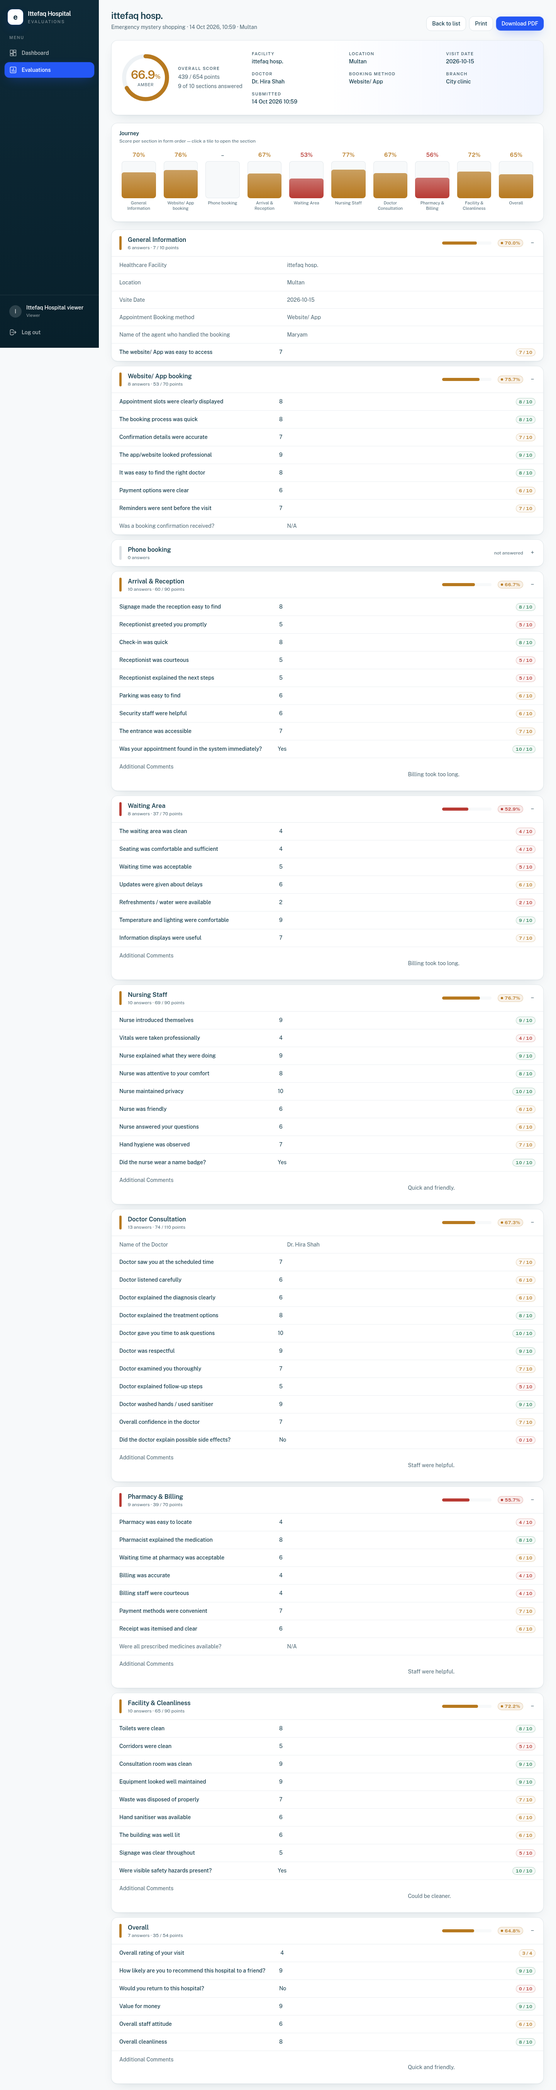
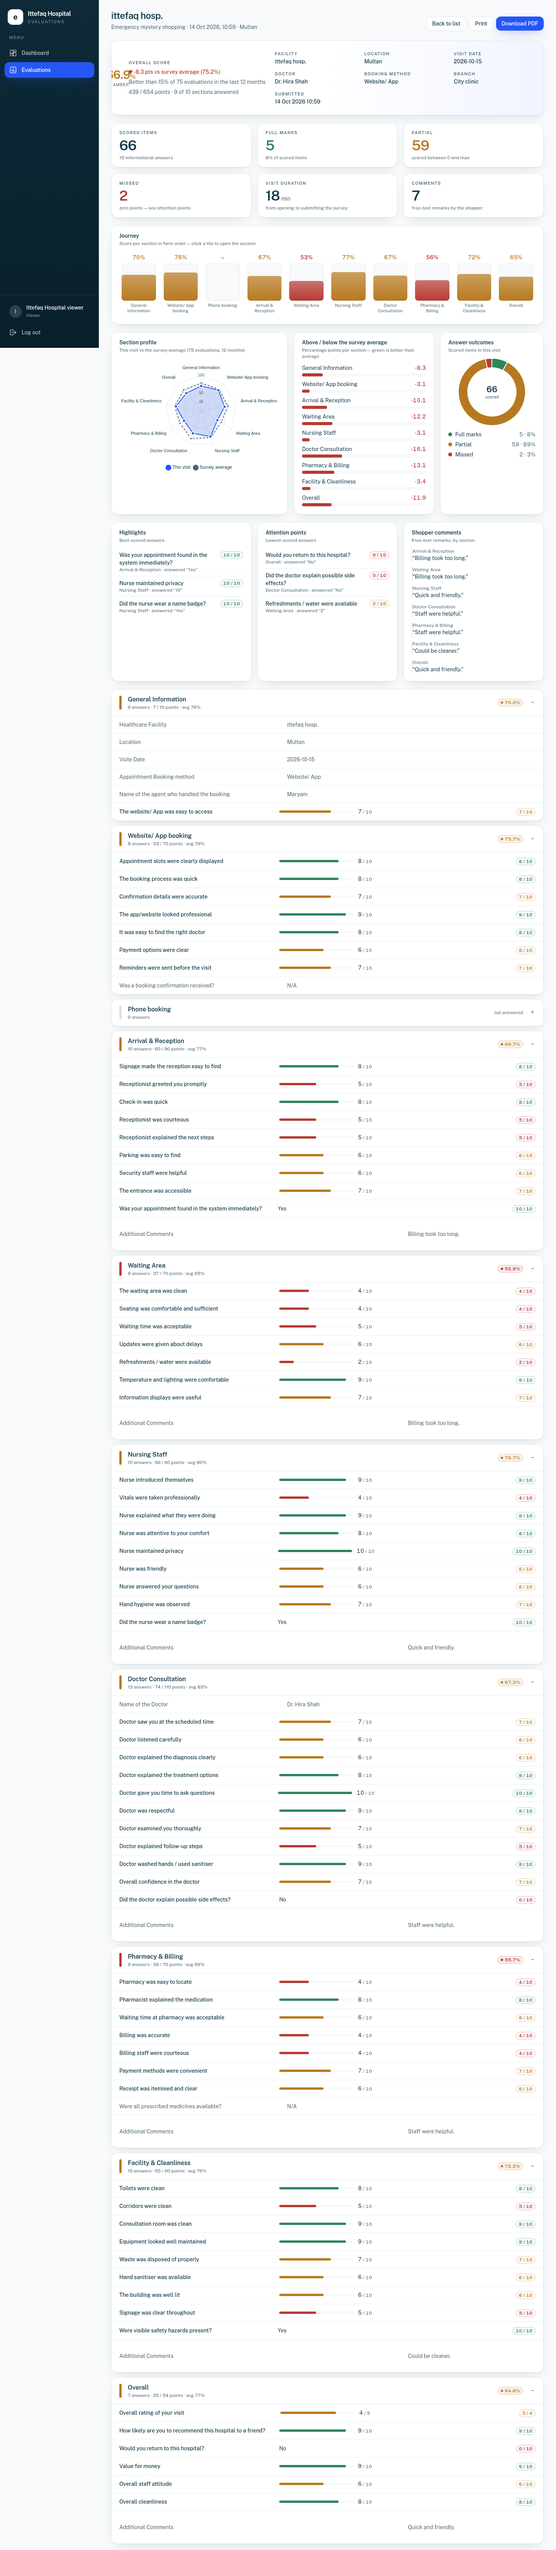
evaluation page: benchmark vs survey average, radar, delta bars, outcome donut, visit KPIs, highlights, comments digest

diff --git a/resources/views/livewire/hospital/evaluations/show.blade.php b/resources/views/livewire/hospital/evaluations/show.blade.php
@@ -8,6 +8,8 @@
         $ragBg = fn ($pct) => match ($ragOf($pct)) { \App\Enums\Rag::Green => 'bg-rag-green', \App\Enums\Rag::Amber => 'bg-rag-amber', \App\Enums\Rag::Red => 'bg-rag-red', default => 'bg-rag-neutral/40' };
         $answered = $e->sectionScores->filter(fn ($s) => $s->pct !== null)->count();
         $circumference = 2 * M_PI * 52;
+        $delta = $e->overall_pct !== null && $benchmark['overall_avg'] !== null ? round($e->overall_pct - $benchmark['overall_avg'], 1) : null;
+        $answeredScores = $e->sectionScores->filter(fn ($s) => $s->pct !== null)->values();
     @endphp
 
     <x-page-header :title="($e->infoValue('facility') ?? $e->form->title)" :subtitle="$e->form->title.' · '.($e->submitted_at?->format('d M Y, H:i') ?? 'in progress').($e->infoValue('location') ? ' · '.$e->infoValue('location') : '')">
@@ -24,11 +26,14 @@
         {{-- Hero --}}
         <div class="panel relative overflow-hidden">
             <div class="absolute inset-y-0 right-0 w-1/2 bg-gradient-to-l from-accent-soft/70 to-transparent pointer-events-none" aria-hidden="true"></div>
-            <div class="relative p-5 sm:p-6 grid grid-cols-1 lg:grid-cols-[auto_1fr] gap-6 items-center">
-                <div class="flex items-center gap-5">
-                    <div class="relative h-32 w-32 shrink-0" role="img" aria-label="Overall score {{ $e->overall_pct === null ? 'not available' : number_format($e->overall_pct, 1).' percent' }}">
-                        <svg viewBox="0 0 120 120" class="h-32 w-32 -rotate-90">
+            <div class="relative p-5 sm:p-6 grid grid-cols-1 lg:grid-cols-2 gap-6 items-center">
+                <div class="flex items-center gap-5 min-w-0">
+                    <div class="relative h-36 w-36 shrink-0" role="img" aria-label="Overall score {{ $e->overall_pct === null ? 'not available' : number_format($e->overall_pct, 1).' percent' }}">
+                        <svg viewBox="0 0 120 120" class="h-36 w-36 -rotate-90">
                             <circle cx="60" cy="60" r="52" fill="none" stroke="#EEF2F5" stroke-width="10"/>
+                            @if($benchmark['overall_avg'] !== null)
+                                <circle cx="60" cy="60" r="52" fill="none" stroke="#A9B6BD" stroke-width="2" stroke-dasharray="2 {{ $circumference - 2 }}" stroke-dashoffset="{{ -$circumference * $benchmark['overall_avg'] / 100 }}" />
+                            @endif
                             <circle cx="60" cy="60" r="52" fill="none" stroke="{{ $ragStroke($e->overall_pct) }}" stroke-width="10" stroke-linecap="round"
                                     stroke-dasharray="{{ $circumference }}" stroke-dashoffset="{{ $circumference * (1 - min(100, max(0, (float) ($e->overall_pct ?? 0))) / 100) }}"/>
                         </svg>
@@ -37,10 +42,15 @@
                             <span class="text-[11px] uppercase tracking-wider text-ink-soft">{{ $ragOf($e->overall_pct)?->label() ?? 'no score' }}</span>
                         </div>
                     </div>
-                    <div class="space-y-1">
+                    <div class="space-y-1.5 min-w-0">
                         <div class="eyebrow">Overall score</div>
-                        <div class="text-sm text-ink-soft">{{ $e->points !== null ? number_format($e->points, 0).' / '.number_format($e->max_points, 0).' points' : 'No scored answers' }}</div>
-                        <div class="text-sm text-ink-soft">{{ $answered }} of {{ $e->sectionScores->count() }} sections answered</div>
+                        @if($delta !== null)
+                            <div class="text-sm font-medium {{ $delta > 0 ? 'text-rag-green' : ($delta < 0 ? 'text-rag-red' : 'text-ink-soft') }}"><span aria-hidden="true">{{ $delta > 0 ? '▲' : ($delta < 0 ? '▼' : '▶') }}</span> {{ $delta > 0 ? '+' : '' }}{{ number_format($delta, 1) }} pts vs survey average ({{ number_format($benchmark['overall_avg'], 1) }}%)</div>
+                        @endif
+                        @if($benchmark['percentile'] !== null)
+                            <div class="text-sm text-ink-soft">Better than {{ $benchmark['percentile'] }}% of {{ $benchmark['count'] }} evaluations in the last 12 months</div>
+                        @endif
+                        <div class="text-sm text-ink-soft">{{ $e->points !== null ? number_format($e->points, 0).' / '.number_format($e->max_points, 0).' points' : 'No scored answers' }} · {{ $answered }} of {{ $e->sectionScores->count() }} sections answered</div>
                         @if($isAdmin)
                             <div class="pt-1 flex flex-wrap gap-1.5">
                                 <x-badge :variant="match ($e->status) { \App\Enums\SubmissionStatus::Approved => 'green', \App\Enums\SubmissionStatus::PendingReview => 'amber', default => 'red' }">{{ $e->status->label() }}</x-badge>
@@ -66,22 +76,160 @@
             </div>
         </div>
 
+        {{-- Visit KPIs --}}
+        <div class="grid grid-cols-2 md:grid-cols-3 xl:grid-cols-6 gap-4">
+            <x-kpi label="Scored items" :value="$insights['scored_count']" :note="$insights['unscored'].' informational answers'" />
+            <x-kpi label="Full marks" :value="$insights['full']" tone="green" :note="$insights['scored_count'] > 0 ? number_format(100 * $insights['full'] / $insights['scored_count'], 0).'% of scored items' : null" />
+            <x-kpi label="Partial" :value="$insights['partial']" tone="amber" note="scored between 0 and max" />
+            <x-kpi label="Missed" :value="$insights['zero']" :tone="$insights['zero'] > 0 ? 'red' : null" :note="$insights['zero'] > 0 ? 'zero points — see attention points' : 'no zero-point answers'" />
+            <x-kpi label="Visit duration" :value="$insights['duration_minutes'] === null ? '–' : $insights['duration_minutes']" :unit="$insights['duration_minutes'] === null ? null : 'min'" note="from opening to submitting the survey" />
+            <x-kpi label="Comments" :value="count($insights['comments'])" note="free-text remarks by the shopper" />
+        </div>
+
+        {{-- Journey --}}
         <x-card title="Journey" subtitle="Score per section in form order — click a tile to open the section">
             <x-journey-strip :scores="$e->sectionScores" :green="$green" :amber="$amber" />
         </x-card>
 
+        {{-- Radar · vs average · answer outcomes --}}
+        <div class="grid grid-cols-1 xl:grid-cols-12 gap-4">
+            <x-card title="Section profile" :subtitle="'This visit vs the survey average'.($benchmark['count'] > 0 ? ' ('.$benchmark['count'].' evaluations, 12 months)' : '')" class="xl:col-span-5">
+                @if($answeredScores->count() < 3)
+                    <p class="text-sm text-ink-soft">The radar needs at least three answered sections.</p>
+                @else
+                    @php
+                        $labels = $answeredScores->map(fn ($s) => $s->section_name)->values()->all();
+                        $visit = $answeredScores->map(fn ($s) => round((float) $s->pct, 1))->values()->all();
+                        $avg = $answeredScores->map(fn ($s) => $benchmark['sections'][$s->section_name] ?? null)->values()->all();
+                        $hasAvg = collect($avg)->filter(fn ($v) => $v !== null)->isNotEmpty();
+                        $datasets = [[
+                            'label' => 'This visit', 'data' => $visit, 'borderColor' => '#2457F5', 'backgroundColor' => 'rgba(36, 87, 245, 0.18)', 'borderWidth' => 2,
+                            'pointBackgroundColor' => '#2457F5', 'pointBorderColor' => '#ffffff', 'pointBorderWidth' => 2, 'pointRadius' => 4,
+                        ]];
+                        if ($hasAvg) {
+                            $datasets[] = ['label' => 'Survey average', 'data' => $avg, 'borderColor' => '#4E6875', 'backgroundColor' => 'rgba(78, 104, 117, 0.06)', 'borderWidth' => 2, 'borderDash' => [5, 4], 'pointBackgroundColor' => '#4E6875', 'pointBorderColor' => '#ffffff', 'pointBorderWidth' => 2, 'pointRadius' => 3];
+                        }
+                    @endphp
+                    <x-chart type="radar" height="h-80" aria-label="Section profile radar" :config="[
+                        'data' => ['labels' => $labels, 'datasets' => $datasets],
+                        'options' => [
+                            'responsive' => true, 'maintainAspectRatio' => false,
+                            'scales' => ['r' => ['min' => 0, 'max' => 100, 'ticks' => ['stepSize' => 25, 'backdropColor' => 'transparent', 'color' => '#4E6875', 'font' => ['size' => 10]], 'grid' => ['color' => 'rgba(220,227,231,0.9)'], 'angleLines' => ['color' => 'rgba(220,227,231,0.9)'], 'pointLabels' => ['color' => '#123A4A', 'font' => ['size' => 11]]]],
+                            'plugins' => ['legend' => ['display' => $hasAvg, 'position' => 'bottom', 'labels' => ['usePointStyle' => true, 'boxWidth' => 8, 'color' => '#123A4A']]],
+                        ],
+                    ]" />
+                @endif
+            </x-card>
+
+            <x-card title="Above / below the survey average" subtitle="Percentage points per section — green is better than average" class="xl:col-span-4">
+                @if($answeredScores->isEmpty() || empty($benchmark['sections']))
+                    <p class="text-sm text-ink-soft">No comparison available yet.</p>
+                @else
+                    <ol class="space-y-2.5">
+                        @foreach($answeredScores as $s)
+                            @php $a = $benchmark['sections'][$s->section_name] ?? null; $d = $a === null ? null : round((float) $s->pct - $a, 1); $w = $d === null ? 0 : min(50, abs($d) * 2); @endphp
+                            <li class="text-sm">
+                                <div class="flex justify-between gap-2 mb-1"><span class="truncate" title="{{ $s->section_name }}">{{ $s->section_name }}</span><span class="tabular-nums font-medium whitespace-nowrap {{ $d === null ? 'text-ink-soft' : ($d > 0 ? 'text-rag-green' : ($d < 0 ? 'text-rag-red' : 'text-ink-soft')) }}">{{ $d === null ? 'no average' : ($d > 0 ? '+' : '').number_format($d, 1) }}</span></div>
+                                <div class="relative h-2 rounded-full bg-paper overflow-hidden" role="img" aria-label="{{ $s->section_name }} {{ $d === null ? 'no comparison' : ($d > 0 ? '+' : '').number_format($d, 1).' points vs average' }}">
+                                    <span class="absolute inset-y-0 left-1/2 w-px bg-line" aria-hidden="true"></span>
+                                    @if($d !== null && $d !== 0.0)
+                                        <span class="absolute inset-y-0 rounded-full {{ $d > 0 ? 'bg-rag-green left-1/2' : 'bg-rag-red right-1/2' }}" style="width: {{ $w }}%"></span>
+                                    @endif
+                                </div>
+                            </li>
+                        @endforeach
+                    </ol>
+                @endif
+            </x-card>
+
+            <x-card title="Answer outcomes" subtitle="Scored items in this visit" class="xl:col-span-3">
+                @if($insights['scored_count'] === 0)
+                    <p class="text-sm text-ink-soft">No scored answers.</p>
+                @else
+                    <x-chart type="doughnut" height="h-44" aria-label="Answer outcomes" :center-text="['value' => (string) $insights['scored_count'], 'label' => 'scored']" :config="[
+                        'data' => ['labels' => ['Full marks', 'Partial', 'Missed'], 'datasets' => [['data' => [$insights['full'], $insights['partial'], $insights['zero']], 'backgroundColor' => ['#2F855A', '#B7791F', '#B83A33'], 'borderColor' => '#ffffff', 'borderWidth' => 2, 'hoverOffset' => 4]]],
+                        'options' => ['responsive' => true, 'maintainAspectRatio' => false, 'cutout' => '72%', 'plugins' => ['legend' => ['display' => false]]],
+                    ]" />
+                    <ul class="mt-3 space-y-1.5 text-sm">
+                        @foreach([['Full marks', 'bg-rag-green', $insights['full']], ['Partial', 'bg-rag-amber', $insights['partial']], ['Missed', 'bg-rag-red', $insights['zero']]] as [$label, $cls, $n])
+                            <li class="flex items-center justify-between gap-2"><span class="flex items-center gap-2"><span class="h-2.5 w-2.5 rounded-full {{ $cls }}" aria-hidden="true"></span>{{ $label }}</span><span class="tabular-nums text-ink-soft">{{ $n }} · {{ number_format(100 * $n / $insights['scored_count'], 0) }}%</span></li>
+                        @endforeach
+                    </ul>
+                @endif
+            </x-card>
+        </div>
+
+        {{-- Highlights · attention · comments --}}
+        <div class="grid grid-cols-1 xl:grid-cols-12 gap-4">
+            <x-card title="Highlights" subtitle="Best-scored answers" class="xl:col-span-4">
+                @if($insights['best'] === [])
+                    <p class="text-sm text-ink-soft">No scored answers.</p>
+                @else
+                    <ul class="divide-y divide-line/70 text-sm">
+                        @foreach($insights['best'] as $a)
+                            <li class="py-2 flex items-start justify-between gap-3">
+                                <span class="min-w-0"><span class="block font-medium">{{ $a['title'] }}</span><span class="block text-xs text-ink-soft">{{ $a['section'] }} · answered “{{ $a['value'] }}”</span></span>
+                                <span class="shrink-0 inline-flex rounded-full px-2 py-0.5 text-xs font-semibold tabular-nums ring-1 ring-inset text-rag-green ring-rag-green/30 bg-rag-green/5">{{ number_format($a['points'], 0) }} / {{ number_format($a['max'], 0) }}</span>
+                            </li>
+                        @endforeach
+                    </ul>
+                @endif
+            </x-card>
+
+            <x-card title="Attention points" subtitle="Lowest-scored answers" class="xl:col-span-4">
+                @if($insights['worst'] === [])
+                    <p class="text-sm text-ink-soft">No scored answers.</p>
+                @else
+                    <ul class="divide-y divide-line/70 text-sm">
+                        @foreach($insights['worst'] as $a)
+                            <li class="py-2 flex items-start justify-between gap-3">
+                                <span class="min-w-0"><span class="block font-medium">{{ $a['title'] }}</span><span class="block text-xs text-ink-soft">{{ $a['section'] }} · answered “{{ $a['value'] }}”</span></span>
+                                <span class="shrink-0 inline-flex rounded-full px-2 py-0.5 text-xs font-semibold tabular-nums ring-1 ring-inset {{ $a['ratio'] <= 0.001 ? 'text-rag-red ring-rag-red/30 bg-rag-red/5' : 'text-rag-amber ring-rag-amber/30 bg-rag-amber/5' }}">{{ number_format($a['points'], 0) }} / {{ number_format($a['max'], 0) }}</span>
+                            </li>
+                        @endforeach
+                    </ul>
+                @endif
+            </x-card>
+
+            <x-card title="Shopper comments" subtitle="Free-text remarks, by section" class="xl:col-span-4">
+                @if($insights['comments'] === [])
+                    <p class="text-sm text-ink-soft">No comments were left.</p>
+                @else
+                    <ul class="space-y-3">
+                        @foreach($insights['comments'] as $c)
+                            <li class="relative pl-3 border-l-2 border-accent/40 text-sm">
+                                <span class="block text-xs text-ink-soft mb-0.5">{{ $c['section'] }}</span>
+                                <span class="block whitespace-pre-wrap">“{{ $c['text'] }}”</span>
+                            </li>
+                        @endforeach
+                    </ul>
+                @endif
+            </x-card>
+        </div>
+
+        {{-- Sections --}}
         <div class="space-y-3">
             @foreach($sections as $block)
-                @php $section = $block['section']; $score = $block['score']; $pct = $score?->pct; @endphp
+                @php
+                    $section = $block['section']; $score = $block['score']; $pct = $score?->pct;
+                    $scoredRows = array_values(array_filter($block['rows'], fn ($r) => $r['answer']->isScored() && $r['answer']->max_points > 0));
+                @endphp
                 <section id="section-{{ $section->id }}" class="panel scroll-mt-4" x-data="{ open: {{ $pct !== null ? 'true' : 'false' }} }" x-on:open-section="open = true">
                     <button type="button" x-on:click="open = !open" class="w-full flex items-center gap-4 px-5 py-3.5 text-left rounded-2xl" :aria-expanded="open.toString()">
                         <span class="h-9 w-1.5 rounded-full {{ $ragBg($pct) }} shrink-0" aria-hidden="true"></span>
                         <span class="flex-1 min-w-0">
                             <span class="block font-semibold truncate">{{ $section->name }}</span>
-                            <span class="block text-xs text-ink-soft">{{ count($block['rows']) }} {{ Str::plural('answer', count($block['rows'])) }}@if($score && $pct !== null) · {{ number_format($score->points, 0) }} / {{ number_format($score->max_points, 0) }} points @endif</span>
+                            <span class="block text-xs text-ink-soft">{{ count($block['rows']) }} {{ Str::plural('answer', count($block['rows'])) }}@if($score && $pct !== null) · {{ number_format($score->points, 0) }} / {{ number_format($score->max_points, 0) }} points @endif@if(isset($benchmark['sections'][$section->name]) && $pct !== null) · avg {{ number_format($benchmark['sections'][$section->name], 0) }}% @endif</span>
                         </span>
+                        @if($scoredRows !== [])
+                            <span class="hidden md:flex items-center gap-0.5" aria-label="Answer scores in order" title="Each square is one scored answer">
+                                @foreach($scoredRows as $r)
+                                    @php $ratio = 100 * $r['answer']->points / $r['answer']->max_points; @endphp
+                                    <span class="h-3 w-3 rounded-sm {{ $ragBg($ratio) }}" style="opacity: {{ 0.45 + 0.55 * $ratio / 100 }}" title="{{ $r['field']->title }}: {{ number_format($r['answer']->points, 0) }} / {{ number_format($r['answer']->max_points, 0) }}"></span>
+                                @endforeach
+                            </span>
+                        @endif
                         @if($pct !== null)
-                            <span class="hidden sm:block w-32 h-2 rounded-full bg-paper overflow-hidden" aria-hidden="true"><span class="block h-full rounded-full {{ $ragBg($pct) }}" style="width: {{ $pct }}%"></span></span>
                             <x-rag-pill :pct="$pct" />
                         @else
                             <span class="text-xs text-ink-soft">not answered</span>
@@ -95,7 +243,7 @@
                             <dl class="divide-y divide-line/60">
                                 @foreach($block['rows'] as $row)
                                     @php $field = $row['field']; $answer = $row['answer']; $scored = $answer->isScored(); $ratio = $scored && $answer->max_points > 0 ? 100 * $answer->points / $answer->max_points : null; @endphp
-                                    <div class="px-5 py-3 grid grid-cols-1 sm:grid-cols-[minmax(0,2fr)_minmax(0,3fr)_auto] gap-2 sm:gap-4 items-start text-sm {{ $scored ? '' : 'text-ink-soft' }}">
+                                    <div class="px-5 py-3 grid grid-cols-1 sm:grid-cols-[minmax(0,2fr)_minmax(0,3fr)_auto] gap-2 sm:gap-4 items-center text-sm {{ $scored ? '' : 'text-ink-soft' }}">
                                         <dt class="{{ $scored ? 'font-medium text-ink' : '' }}">{{ $field->title }}</dt>
                                         <dd class="{{ $field->type === 'long_text' ? 'whitespace-pre-wrap' : '' }}">
                                             @if($answer->answer_type === 'file_url')
@@ -105,6 +253,11 @@
                                                 @else
                                                     <a href="{{ route('evaluations.files.show', [$e, $answer->id]) }}" class="underline">Download {{ $answer->value_text }}</a>
                                                 @endif
+                                            @elseif($scored && $ratio !== null && $field->isScale())
+                                                <span class="flex items-center gap-3">
+                                                    <span class="flex-1 max-w-[12rem] h-1.5 rounded-full bg-paper overflow-hidden" aria-hidden="true"><span class="block h-full rounded-full {{ $ragBg($ratio) }}" style="width: {{ $ratio }}%"></span></span>
+                                                    <span class="tabular-nums">{{ $answer->value_text }}<span class="text-ink-soft text-xs"> / {{ $field->scale_max }}</span></span>
+                                                </span>
                                             @else
                                                 {{ $answer->value_text ?? '—' }}
                                             @endif

diff --git a/app/Livewire/Hospital/Evaluations/Show.php b/app/Livewire/Hospital/Evaluations/Show.php
@@ -3,11 +3,15 @@
 namespace App\Livewire\Hospital\Evaluations;
 
 use App\Domain\Audit\AuditLogger;
+use App\Domain\Dashboard\DashboardFilters;
+use App\Domain\Dashboard\DashboardQuery;
 use App\Domain\Scoring\Rescorer;
 use App\Enums\SubmissionStatus;
+use App\Models\Answer;
 use App\Models\Submission;
 use App\Models\User;
 use Illuminate\Contracts\View\View;
+use Illuminate\Support\Collection;
 use Livewire\Attributes\Layout;
 use Livewire\Component;
 
@@ -44,6 +48,74 @@ class Show extends Component
     public function reject(AuditLogger $audit): void
     {
         $this->review(SubmissionStatus::Rejected, 'submission.rejected', $audit);
+    }
+
+    /**
+     * How this evaluation compares with the same survey over the last 12 months.
+     *
+     * @return array{overall_avg: float|null, count: int, percentile: int|null, sections: array<string, float>}
+     */
+    private function benchmark(User $user): array
+    {
+        $form = $this->evaluation->form;
+        $query = new DashboardQuery($user);
+        $filters = DashboardFilters::fromRequest('12m')->withForm($form->id);
+
+        $headline = $query->headline($form->hospital, $filters);
+        $sections = collect($query->sectionAverages($form, $filters))->mapWithKeys(fn ($s) => [$s['name'] => $s['avg']])->all();
+
+        $percentile = null;
+        if ($this->evaluation->overall_pct !== null && $headline['count'] > 1) {
+            $below = $query->base($form->hospital, $filters)->where('submissions.overall_pct', '<', $this->evaluation->overall_pct)->count();
+            $percentile = (int) round(100 * $below / $headline['count']);
+        }
+
+        return ['overall_avg' => $headline['avg'], 'count' => $headline['count'], 'percentile' => $percentile, 'sections' => $sections];
+    }
+
+    /**
+     * Answer-level facts for the visit: outcome mix, best and weakest answers, comments, duration.
+     *
+     * @param  Collection<int, mixed>  $sections
+     * @return array<string, mixed>
+     */
+    private function insights($sections): array
+    {
+        $scored = [];
+        $comments = [];
+        $unscored = 0;
+        foreach ($sections as $block) {
+            foreach ($block['rows'] as $row) {
+                $answer = $row['answer'];
+                if ($answer->isScored() && $answer->max_points > 0) {
+                    $scored[] = ['title' => $row['field']->title, 'section' => $block['section']->name, 'points' => $answer->points, 'max' => $answer->max_points, 'ratio' => $answer->points / $answer->max_points, 'value' => $answer->value_text];
+                } else {
+                    $unscored++;
+                    if ($row['field']->type === 'long_text' && trim((string) $answer->value_text) !== '') {
+                        $comments[] = ['section' => $block['section']->name, 'text' => $answer->value_text];
+                    }
+                }
+            }
+        }
+
+        $full = count(array_filter($scored, fn ($a) => $a['ratio'] >= 0.999));
+        $zero = count(array_filter($scored, fn ($a) => $a['ratio'] <= 0.001));
+        usort($scored, fn ($a, $b) => $b['ratio'] <=> $a['ratio']);
+
+        $landed = $this->evaluation->landed_at;
+        $submitted = $this->evaluation->submitted_at;
+
+        return [
+            'scored_count' => count($scored),
+            'full' => $full,
+            'partial' => count($scored) - $full - $zero,
+            'zero' => $zero,
+            'unscored' => $unscored,
+            'best' => array_slice($scored, 0, 3),
+            'worst' => array_slice(array_reverse($scored), 0, 3),
+            'comments' => $comments,
+            'duration_minutes' => $landed && $submitted ? max(0, (int) round($landed->diffInMinutes($submitted))) : null,
+        ];
     }
 
     private function review(SubmissionStatus $status, string $action, AuditLogger $audit): void
@@ -93,6 +165,8 @@ class Show extends Component
         return view('livewire.hospital.evaluations.show', [
             'sections' => $sections,
             'orphanAnswers' => $orphanAnswers,
+            'benchmark' => $this->benchmark($user),
+            'insights' => $this->insights($sections),
             'isAdmin' => $user->isSuperAdmin(),
             'rawJson' => $user->isSuperAdmin() ? json_encode($this->evaluation->raw, JSON_PRETTY_PRINT | JSON_UNESCAPED_SLASHES | JSON_UNESCAPED_UNICODE) : null,
             'backUrl' => $user->isSuperAdmin() ? route('hospitals.evaluations.index', $this->evaluation->form->hospital) : route('evaluations.index'),
